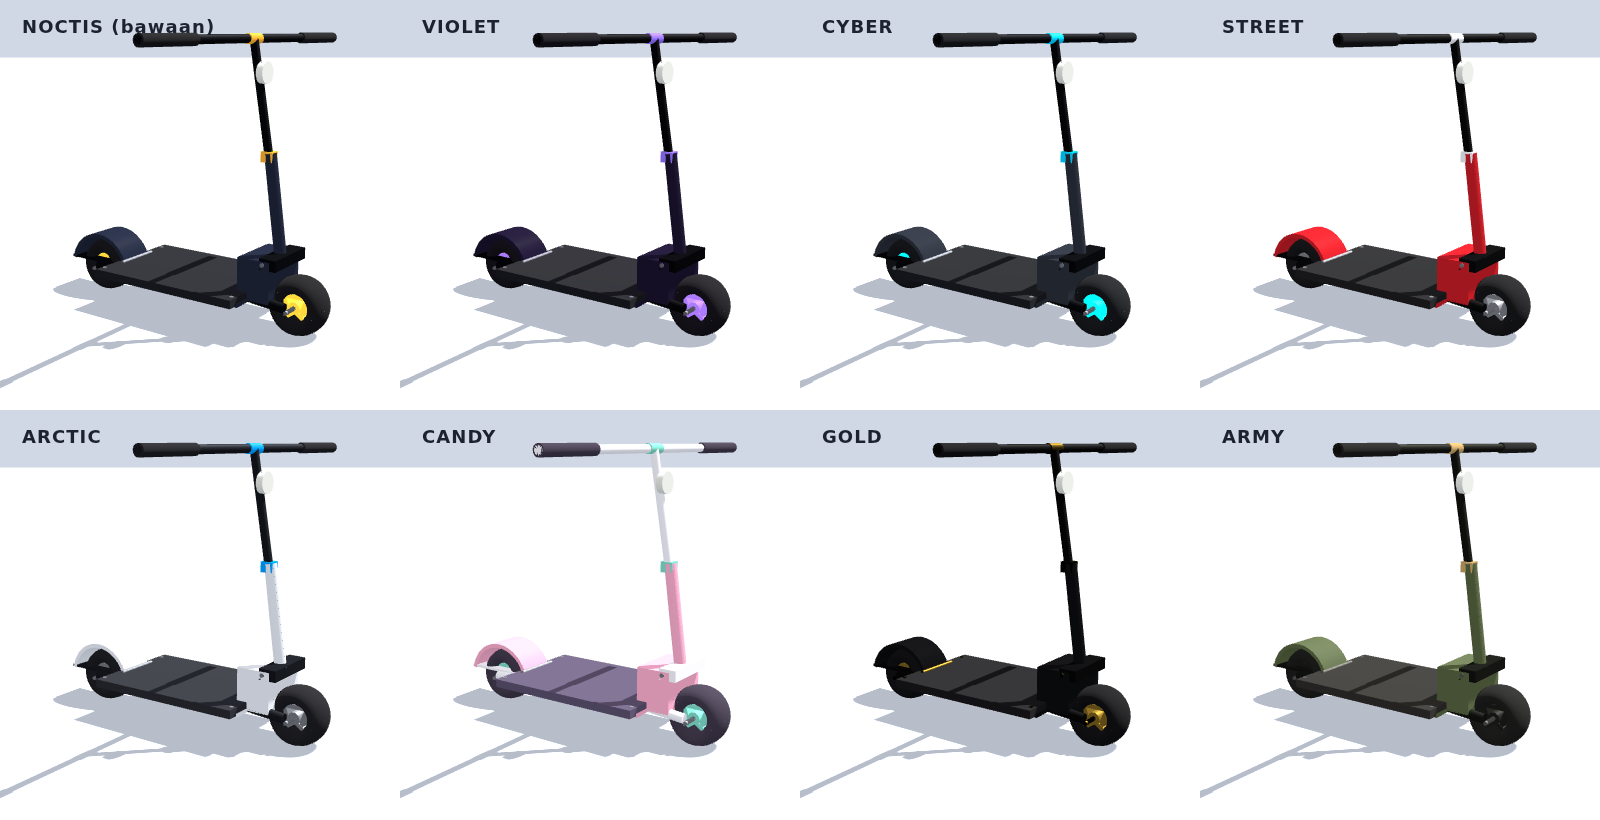
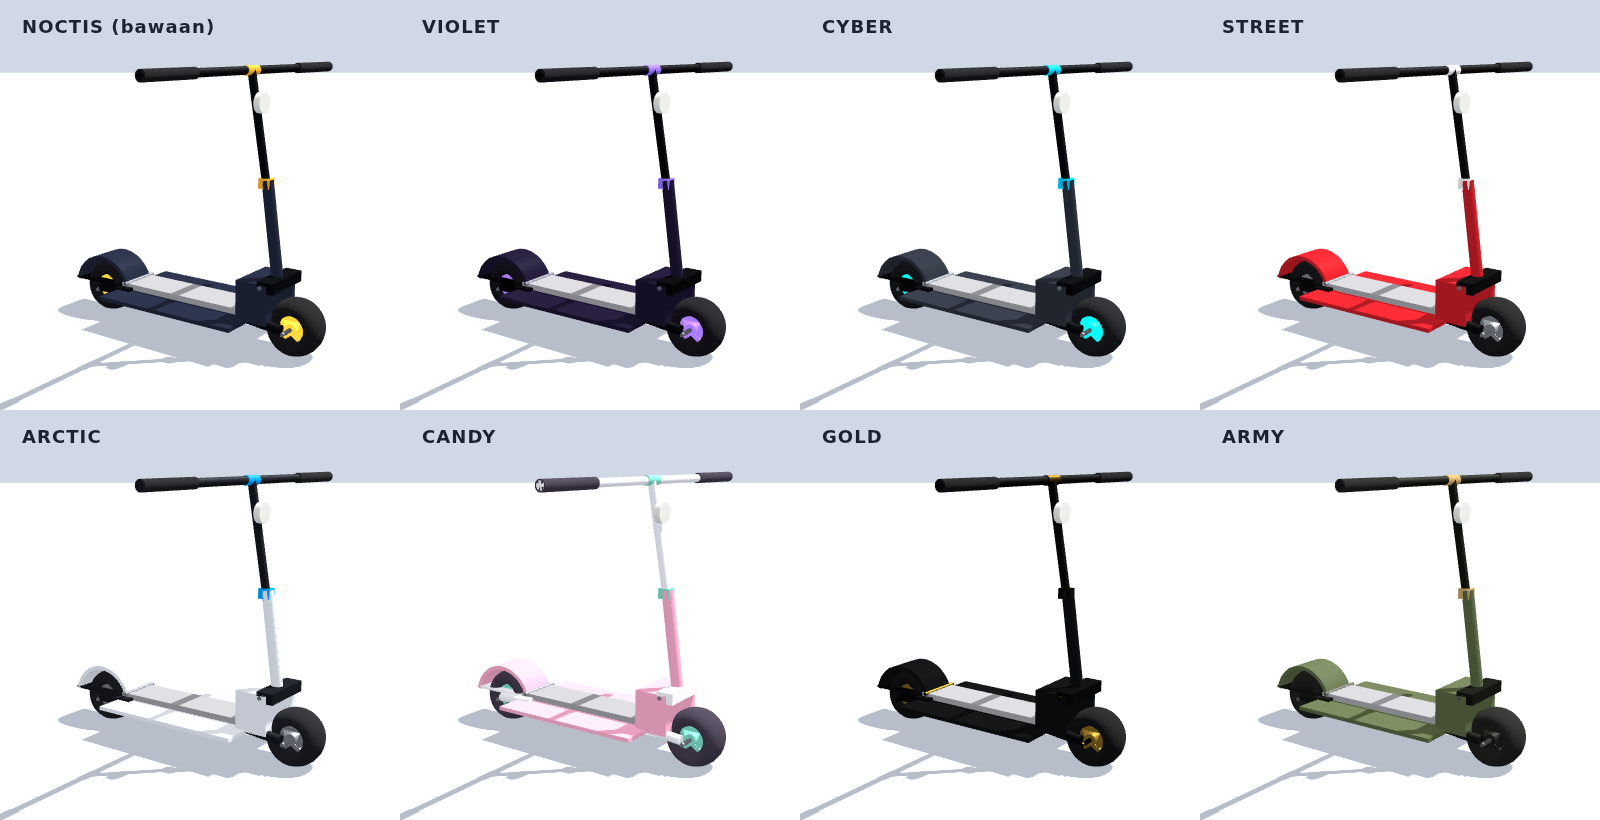
Keep the scooter's NOCTIS DISTRICT deck texture
The deck's own texture (rbxassetid://110495909110501, with the NOCTIS
DISTRICT design) was replaced by a grip-tape material; keep it and only
theme the other parts:

- Deck keeps its texture, colour and material (Role "Original", not
  themed); the build fails if the texture is missing from the output
- The textured deck top now keeps the original proportions (1.94 x 0.49
  studs, same 0.36 scale as its length) so the design isn't stretched;
  the deck base under it is widened to 1.35 studs instead, so both feet
  still fit. Deck bolts stay on the textured plate's corners
- Grip role removed from the themes (no part uses it now)
- Previews draw the deck in its base colour (the texture can't be
  fetched here); README notes it

Claude-Session: https://claude.ai/code/session_01NrMy9vYnCmqNYCpmJDfD6y

Changed region(s): [[0.0, 0.5183, 1.0, 1.0], [0.0, 0.0305, 1.0, 0.4878]]

diff --git a/README.md b/README.md
@@ -121,7 +121,7 @@ Skuter tendang "scooter noctis" dijadikan **Tool**. Pemain memilihnya dari hotba
 ![Malam](docs/scooter-night.png)
 </details>
 
-> Gambar skuter di atas adalah render perkiraan. Mesh skuternya adalah aset Roblox yang tidak bisa diunduh di sini, jadi tiap part digambar sebagai bentuk sederhana dengan ukuran, posisi, dan warna yang sama. Warna dan posenya sesuai, tetapi bentuk detailnya di game mengikuti mesh aslinya. Gambar GUI dirender dari GUI yang sama dengan yang dibuat script. Tombol JUMP, thumbstick, dan slot hotbar di gambar hanya tiruan milik Roblox untuk menunjukkan posisinya.
+> Gambar skuter di atas adalah render perkiraan. Mesh skuternya adalah aset Roblox yang tidak bisa diunduh di sini, jadi tiap part digambar sebagai bentuk sederhana dengan ukuran, posisi, dan warna yang sama. Warna dan posenya sesuai, tetapi bentuk detailnya di game mengikuti mesh aslinya. Permukaan dek di gambar tampil abu-abu polos; di game dek memakai tekstur aslinya dengan tulisan NOCTIS DISTRICT. Gambar GUI dirender dari GUI yang sama dengan yang dibuat script. Tombol JUMP, thumbstick, dan slot hotbar di gambar hanya tiruan milik Roblox untuk menunjukkan posisinya.
 
 ### Cara pasang
 
@@ -147,12 +147,14 @@ Di bawah layar ada speedometer (km/jam) dan tombol ganti warna. Tombol klakson a
 
 ### Tema warna
 
-Ada 8 tema: **Noctis** (bawaan, biru malam + amber, senada dengan menu garasi), **Violet**, **Cyber**, **Street**, **Arctic**, **Candy**, **Gold**, dan **Army**. Semuanya memakai material bawaan Roblox (SmoothPlastic mengilap, Metal, Foil, Asphalt untuk grip tape, Rubber untuk ban, Neon untuk velg dan strip bawah dek), jadi tidak ada gambar yang perlu di-upload.
+Ada 8 tema: **Noctis** (bawaan, biru malam + amber, senada dengan menu garasi), **Violet**, **Cyber**, **Street**, **Arctic**, **Candy**, **Gold**, dan **Army**. Semuanya memakai material bawaan Roblox (SmoothPlastic mengilap, Metal, Foil, Rubber untuk ban, Neon untuk velg dan strip bawah dek), jadi tidak ada gambar yang perlu di-upload.
+
+Permukaan dek dengan tulisan **NOCTIS DISTRICT** tidak ikut tema. Teksturnya tetap seperti model aslinya, dan tema hanya mewarnai bagian lain.
 
 Untuk mengatur warna, buka `StarterPack > Scooter > Settings`:
 
 - **Tema bawaan:** ubah `Settings.Theme = "Noctis"` ke nama tema lain.
-- **Tema sendiri (misalnya warna map-mu):** salin salah satu tabel di `Settings.Themes`, ganti nama dan warnanya, lalu tambahkan namanya ke `Settings.ThemeOrder`. Keterangan setiap bagian (Paint, Trim, Grip, Metal, Accent, Rubber, Rim, Glow, Light) ada di dalam Settings.
+- **Tema sendiri (misalnya warna map-mu):** salin salah satu tabel di `Settings.Themes`, ganti nama dan warnanya, lalu tambahkan namanya ke `Settings.ThemeOrder`. Keterangan setiap bagian (Paint, Trim, Metal, Accent, Rubber, Rim, Glow, Light) ada di dalam Settings.
 - **Satu warna untuk semua pemain:** `Settings.PlayersCanChangeTheme = false`.
 
 ### Klakson
@@ -198,11 +200,12 @@ Semua animasi dihitung oleh script (IK), bukan AnimationTrack, jadi tidak ada ID
 
 `tools/build-scooter.luau` mengubah model asli dengan langkah berikut:
 
-- **Ukuran:** model asli sekitar 2× tinggi karakter. Profilnya diperkecil ke 0,36× sehingga stang berada 2,7 stud di atas dek, pas untuk tangan R6. Dek dibuat lebih lebar (1,35 stud) supaya dua kaki muat. Hasilnya dek 0,49 stud dari tanah dan roda berdiameter 0,68 stud.
+- **Ukuran:** model asli sekitar 2× tinggi karakter. Profilnya diperkecil ke 0,36× sehingga stang berada 2,7 stud di atas dek, pas untuk tangan R6. Hasilnya dek 0,49 stud dari tanah dan roda berdiameter 0,68 stud.
+- **Dek:** permukaan dek yang bertekstur (tulisan NOCTIS DISTRICT) diperkecil dengan proporsi yang sama persis dengan aslinya (1,94 × 0,49 stud), jadi tulisannya tidak gepeng atau melar. Alas dek di bawahnya dilebarkan jadi 1,35 stud supaya kedua kaki tetap muat.
 - **Nama part:** 40 part diberi nama yang jelas (Deck, Column, Handlebar, GripLeft, Tire, Spoke1 …), dan setiap part diberi atribut `Role` untuk tema.
 - **Sambungan:** part dirakit dengan Weld dan Motor6D sehingga stang bisa belok di sumbu tiangnya dan kedua roda bisa berputar. Semua part massless dan tidak bertabrakan, jadi tidak mengganggu gerak karakter.
 - **Tambahan:** lampu depan (SpotLight), lampu kolong (PointLight), titik pegangan tangan dan jalur tendangan untuk animasi, RemoteEvent `SetTheme` dan `Horn`, dan modul GUI `ScooterHud`.
-- **Tekstur:** tekstur asli di permukaan dek diganti material grip tape (Asphalt).
+- **Tekstur:** tekstur asli dek (NOCTIS DISTRICT) tetap dipakai. Build akan gagal kalau tekstur itu sampai hilang dari file hasil. Part lain yang sebelumnya abu-abu polos diberi warna dan material dari tema.
 - **Format file:** file dari Studio versi baru menyimpan Tags dengan format yang belum bisa dibaca Lune. Tags-nya kosong, jadi dibuang saat build (`tools/lib/rbxm.luau`). File hasil build menyimpan `MeshId` sebagai teks biasa, sama seperti yang disimpan Studio.
 
 ### Pengujian
